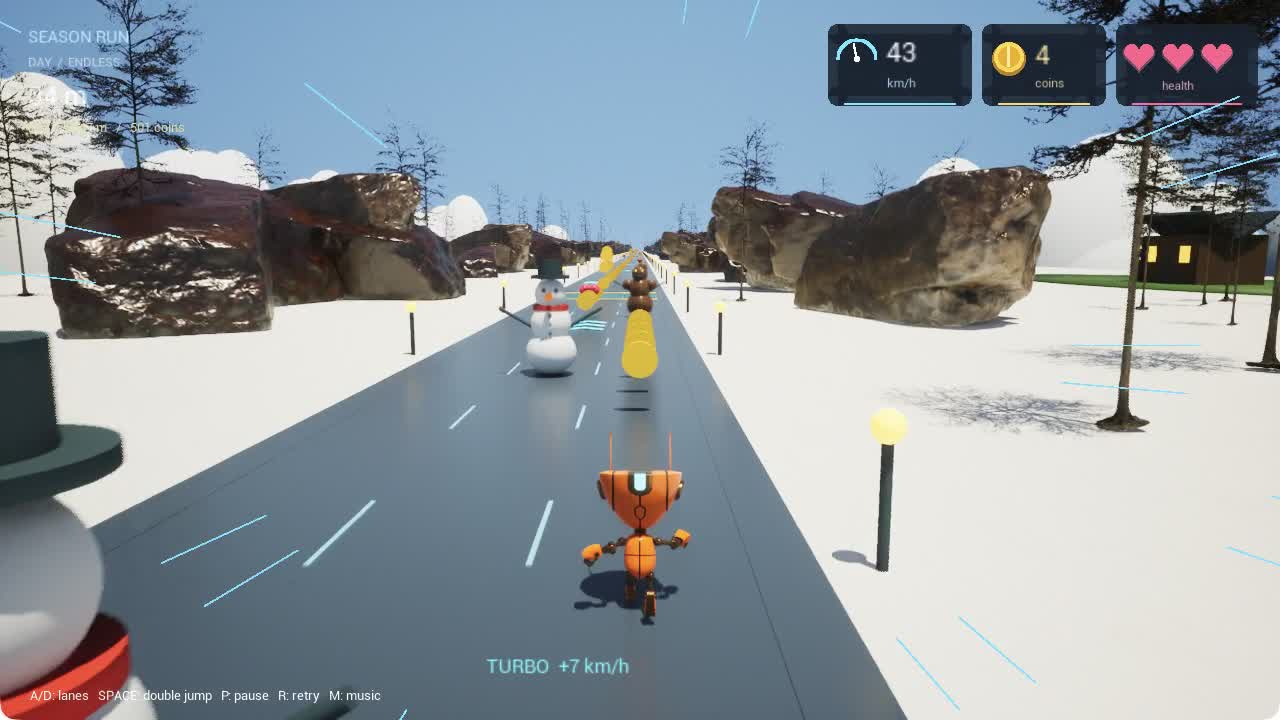
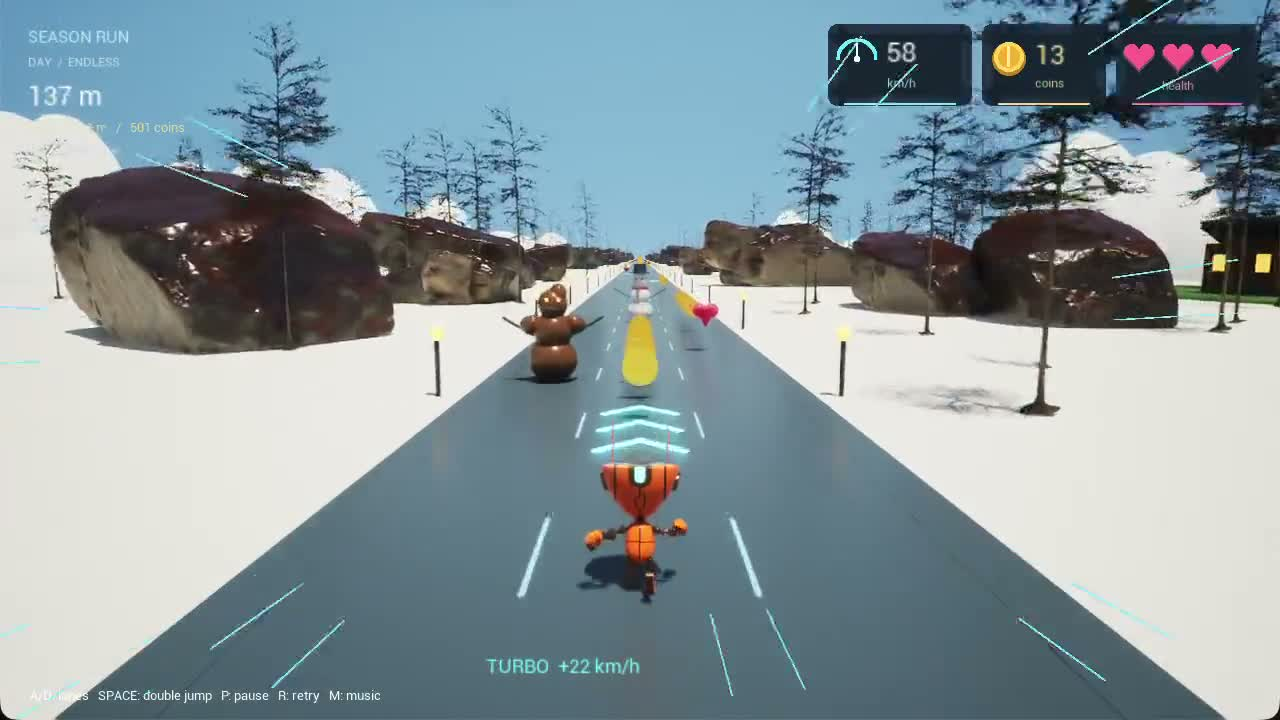
Replace Unreal demo with smooth 30-second video and embed GitHub player

diff --git a/unreal.html b/unreal.html
@@ -26,14 +26,14 @@
     <p class="intro">Короткая запись Unreal-версии раннера: снежная дорога, живые снеговики, сбор монет и плавное ускорение. Нажмите ▶, чтобы посмотреть.</p>
     <section class="screen" aria-label="Видео игрового процесса Season Run">
       <video controls playsinline preload="metadata" poster="docs/screenshots/unreal-video-poster.jpg" aria-label="Season Run — зимний раннер на Unreal Engine">
-        <source src="https://videohub.dermanov.ru/storage/originals/d1fb1e2907a78b5e.mp4" type="video/mp4">
-        Ваш браузер не поддерживает видео. <a href="https://videohub.dermanov.ru/watch/d1fb1e2907a78b5e">Посмотреть на VideoHub</a>.
+        <source src="https://videohub.dermanov.ru/storage/originals/627af461c86e635c.mp4" type="video/mp4">
+        Ваш браузер не поддерживает видео. <a href="https://videohub.dermanov.ru/watch/627af461c86e635c">Посмотреть на VideoHub</a>.
       </video>
-      <div class="caption"><strong>Season Run — Unreal Engine</strong><span>11 секунд · 720p · со звуком</span></div>
+      <div class="caption"><strong>Season Run — Unreal Engine</strong><span>30 секунд · 720p · 60 fps · музыка</span></div>
     </section>
     <div class="actions">
       <a class="button" href="./">Играть в браузерную 3D-версию</a>
-      <a class="button secondary" href="https://videohub.dermanov.ru/watch/d1fb1e2907a78b5e">Открыть на VideoHub ↗</a>
+      <a class="button secondary" href="https://videohub.dermanov.ru/watch/627af461c86e635c">Открыть на VideoHub ↗</a>
       <a class="button secondary" href="https://github.com/dermanov-ru/season-run/tree/main/unreal-source">Исходники Unreal ↗</a>
     </div>
     <div class="notes">
@@ -41,7 +41,7 @@
       <section><h2>День и ночь</h2><p>Освещение меняется во время забега. Ночью в небе появляются созвездия.</p></section>
       <section><h2>Всё быстрее</h2><p>Каждая стрелка добавляет немного скорости. Прибавки накапливаются без потолка.</p></section>
     </div>
-    <footer>Видео размещено на <a href="https://videohub.dermanov.ru/watch/d1fb1e2907a78b5e">VideoHub</a>. Это запись игры, а не интерактивная Unreal-сборка.<br>Робот: Stack O Bot / Epic Games. Окружение: Poly Haven (CC0). Музыка Night Flight создана для проекта.</footer>
+    <footer>Видео размещено на <a href="https://videohub.dermanov.ru/watch/627af461c86e635c">VideoHub</a>. Это запись игры, а не интерактивная Unreal-сборка.<br>Робот: Stack O Bot / Epic Games. Окружение: Poly Haven (CC0). Музыка Night Flight создана для проекта.</footer>
   </main>
 </body>
 </html>

diff --git a/unreal-source/Source/SeasonRun/RunGame.cpp b/unreal-source/Source/SeasonRun/RunGame.cpp
@@ -61,7 +61,7 @@ void ARunCharacter::BeginPlay() {
  if (auto* Anim=LoadObject<UAnimSequence>(nullptr,TEXT("/Game/StackOBot/Characters/Bot/Animations/A_Bot_Run.A_Bot_Run"))) GetMesh()->PlayAnimation(Anim,true);
 }
 void ARunCharacter::SaveProgress() {
- if(!Progress) return;
+ if(!Progress || FParse::Param(FCommandLine::Get(),TEXT("RunnerTrailer"))) return;
  Progress->BestMeters=FMath::Max(Progress->BestMeters,FMath::Max(0,FMath::FloorToInt(Distance/100)));
  Progress->BestCoins=FMath::Max(Progress->BestCoins,Coins);
  Progress->TotalCoins+=FMath::Max(0,Coins-SavedRunCoins); SavedRunCoins=Coins;
@@ -322,6 +322,37 @@ void ARunCourse::Tick(float Dt) {
   }
  }
 #endif
+ // Optional attract-mode driver for recording: uses normal movement, jumps and collisions.
+ // It never alters user records and is inactive in ordinary play.
+ if(FParse::Param(FCommandLine::Get(),TEXT("RunnerTrailer")) && Runner->Started && !Runner->Finished) {
+  float X=Runner->GetActorLocation().X;
+  int TargetLane=Runner->Lane;
+  float Closest=FLT_MAX;
+  for(const auto& Item:Items) if(!Item.Done && (Item.Kind==EKind::Boost || Item.Kind==EKind::Heart) && Item.X>X-80 && Item.X-X<Closest) {
+   Closest=Item.X-X;TargetLane=FMath::RoundToInt(Item.Y/220.f);
+  }
+  // One early impact makes the subsequent healing pickup visible in the HUD.
+  if(X>2350 && X<3150) TargetLane=0;
+  else for(const auto& Enemy:Enemies) if(Enemy.BreakAge<0 && Enemy.X>X-120 && Enemy.X-X<850 && FMath::Abs(Enemy.Y-TargetLane*220.f)<1) {
+   for(int Candidate=-1;Candidate<=1;Candidate++) {
+    bool Safe=true;
+    for(const auto& Other:Enemies) if(Other.BreakAge<0 && FMath::Abs(Other.X-X)<900 && FMath::Abs(Other.Y-Candidate*220.f)<1) Safe=false;
+    if(Safe) {TargetLane=Candidate;break;}
+   }
+  }
+  Runner->Lane=TargetLane;
+  for(int I=0;I<Pits.Num();I++) {
+   const auto& Pit=Pits[I];
+   if(!Pit.Wide && FMath::Abs(Pit.Y-TargetLane*220.f)>1) continue;
+   float Lead=FMath::Max(360.f,Runner->Speed*.37f);
+   if(I!=TrailerPit && Pit.Start-X>0 && Pit.Start-X<Lead) {
+    TrailerPit=I;TrailerJumpAt=Runner->Elapsed;Runner->StopJumping();Runner->Jump();
+   }
+  }
+  if(TrailerJumpAt>=0 && Runner->Elapsed-TrailerJumpAt>.22f) {
+   Runner->StopJumping();Runner->Jump();TrailerJumpAt=-1;
+  }
+ }
  UpdateDaylight(Runner->Elapsed);
  if(!Runner->Started || Runner->Paused || Runner->Finished) return;
  if(Runner->GetActorLocation().X>=ARunCharacter::LoopLength) {

diff --git a/unreal-source/Source/SeasonRun/RunGame.h b/unreal-source/Source/SeasonRun/RunGame.h
@@ -42,6 +42,8 @@ public:
  virtual void Tick(float Delta) override;
 private:
  int32 VerifyStage=0, VerifyHeart=-1;
+ int32 TrailerPit=-1;
+ float TrailerJumpAt=-1;
  enum class EKind { Coin, Snowman, Mudman, Boost, Heart };
  struct FItem { float X,Y; EKind Kind; bool Done=false; int32 Index; float Z=105; };
  struct FPit { float Start,End,Y; bool Done=false,Wide=false; };

diff --git a/unreal-source/README.md b/unreal-source/README.md
@@ -2,7 +2,7 @@
 
 Нативный C++-прототип на Unreal Engine 5.8. В основном [README](../README.md) есть браузерные игры для запуска без установки; эта папка хранит редактируемый Unreal-проект, а не готовую игру для скачивания.
 
-**[▶ Смотреть игровое видео](https://dermanov-ru.github.io/season-run/unreal.html)** · [VideoHub](https://videohub.dermanov.ru/watch/d1fb1e2907a78b5e)
+**[▶ Смотреть игровое видео](https://dermanov-ru.github.io/season-run/unreal.html)** · [VideoHub](https://videohub.dermanov.ru/watch/627af461c86e635c)
 
 ![Игровой кадр Unreal Engine](../docs/screenshots/unreal-day.jpg)
 
@@ -56,3 +56,7 @@ Enter — начать; A/D или стрелки — дорожка; пробе
 Встроенные проверки `SeasonRun.*` покрывают столкновения, смену дорожек, прыжки, ямы, лечение, накопительный разгон, день/ночь и сериализацию прогресса. На Mac с UE 5.8.3 прошли все шесть групп. Отдельная проверка `-RunnerVerify` запускает настоящий подбор сердечка, повтор трассы и сохранение/загрузку без повторного начисления монет, используя изолированный слот `SeasonRunVerification`.
 
 Это прототип с повторяющейся зимней трассой. Все сезонные окружения, уровни, броня и сюрпризы исходной браузерной игры пока не перенесены. Браузерного экспорта Unreal в этом репозитории нет.
+
+### Запись демонстрации
+
+Параметр `-RunnerTrailer` включает автоматический показ обычного забега: ускорители, столкновение и восстановление сердечком, обход препятствий и двойные прыжки. Режим не меняет сохранённые рекорды. Без этого параметра управление остаётся ручным.

diff --git a/README.md b/README.md
@@ -40,9 +40,11 @@
 
 ## Unreal Engine — бесконечный зимний забег
 
-**[▶ Посмотреть короткое видео без установки](https://dermanov-ru.github.io/season-run/unreal.html)** · [Видео на VideoHub](https://videohub.dermanov.ru/watch/d1fb1e2907a78b5e)
+**[▶ Посмотреть короткое видео без установки](https://dermanov-ru.github.io/season-run/unreal.html)** · [Видео на VideoHub](https://videohub.dermanov.ru/watch/627af461c86e635c)
 
-[![Видео Unreal-раннера: нажмите, чтобы посмотреть](docs/screenshots/unreal-video-poster.jpg)](https://dermanov-ru.github.io/season-run/unreal.html)
+https://github.com/user-attachments/assets/77caf5f1-9e3f-4157-83aa-0c647860b82e
+
+30 секунд игрового демо: разгон на стрелках, снеговики, двойные прыжки через ямы и подбор сердечек. Музыка добавлена к записи; видеоряд записан непрерывно. Автоматическое управление используется только для демонстрации.
 
 [Редактируемый проект и описание](unreal-source/README.md) — нативный прототип на Unreal Engine 5.8. Здесь он представлен исходниками, скриншотом и видео: браузерной сборки и отдельного скачивания игры нет.
 
